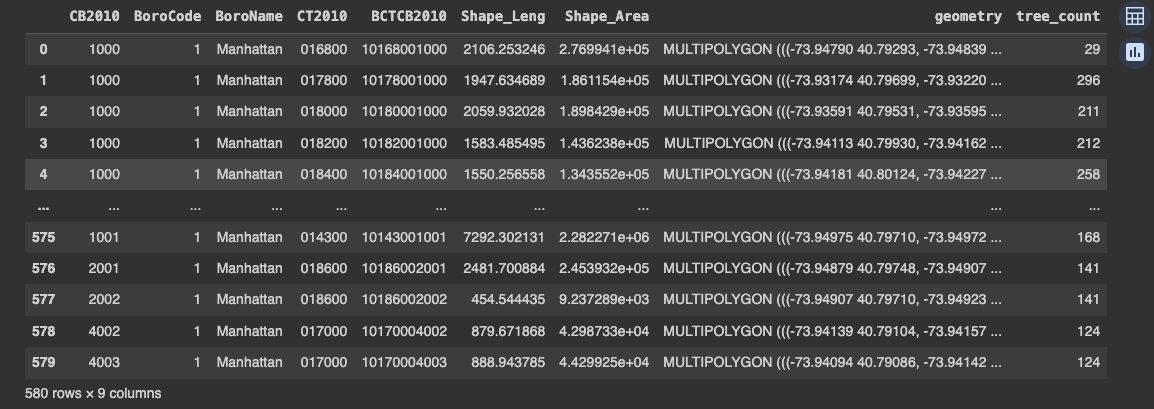
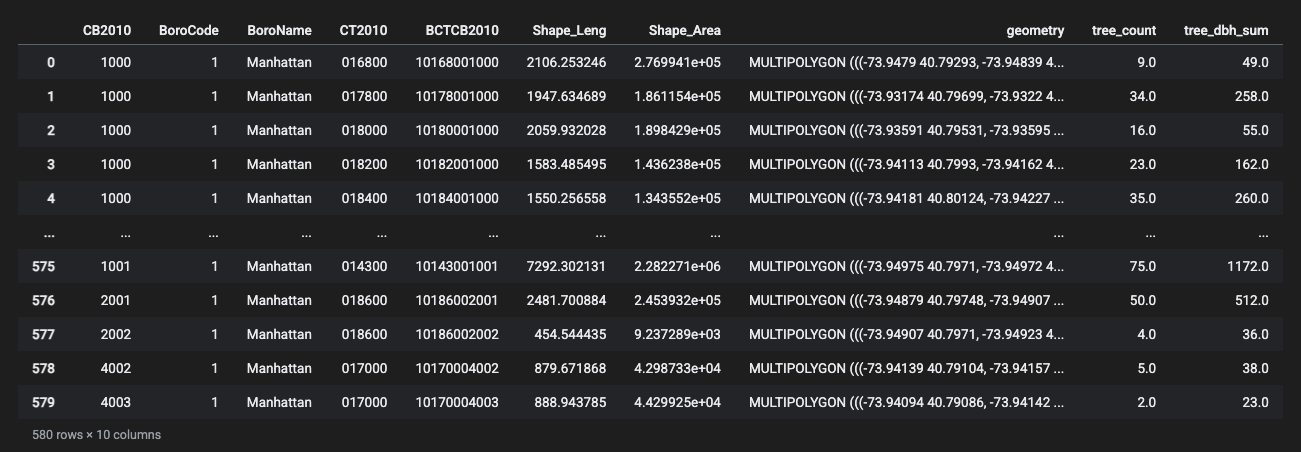
tutorial 2 updates

diff --git a/src/content/tutorials/02-mapping-where.md b/src/content/tutorials/02-mapping-where.md
@@ -25,8 +25,8 @@ Create a new folder for your work on this series of modules. Inside it create a 
 In this module you will be making a series of maps about NYC street trees. The following datasets are in the course folder, under the name of this tutorial:
 
 - **New York City Landcover 2010 (3ft version), clipped** (`landcover_2010_um.tif`). A raster dataset created to describe major land use categories for New York City derived from satellite imagery. The full dataset covers the whole city and is too large for a notebook, so I have clipped it to the same area of Harlem as the other two datasets. From the [NYC Open Data page](https://data.cityofnewyork.us/Environment/Landcover-Raster-Data-2010-3ft-Resolution/9auy-76zt) for the full dataset, also download the Data Dictionary: `Landcover2010_DataDictionary_20171012.xlsx`.
-- **New York City 2015 Street Tree Census** (`2015_Street_Tree_Census_subset_um.csv`). This dataset was collected by more than 2000 volunteers visiting each street tree within the five boroughs of NYC. For more background on this amazing effort (the third such census over the past 30 years) see the NYC Parks department website [here](https://www.nycgovparks.org/trees/treescount). The course folder has a subset of the data for an area in Harlem to make for easier processing. For those interested the full dataset is available for download directly via NYC Open Data [here](https://data.cityofnewyork.us/Environment/2015-Street-Tree-Census-Tree-Data/pi5s-9p35).
-- **New York City Census Blocks 2010** (`nycb2010_um.gpkg`). As with the street trees above, this is a subset of the full NYC Census Blocks file for an area of Harlem. I exported the blocks as a geopackage (`.gpkg`) so that we do not have to upload the several files that accompany a shapefile. The original dataset for all of NYC is available [here](https://data.cityofnewyork.us/City-Government/2010-Census-Blocks/v2h8-6mxf).
+- **New York City 2015 Street Tree Census** (`2015_Street_Tree_Census_subset_um.csv`). This dataset was collected by more than 2000 volunteers visiting each street tree within the five boroughs of NYC. For more background on this amazing effort (the third such census over the past 30 years) see the NYC Parks department website [here](https://www.nycgovparks.org/trees/treescount). The course folder has a subset of the data for an area in Harlem to make for easier processing. For those interested the full dataset is available for download directly via NYC Open Data [here](https://data.cityofnewyork.us/Environment/2015-Street-Tree-Census-Tree-Data/uvpi-gqnh).
+- **New York City Census Blocks 2010** (`nycb2010_um.gpkg`). As with the street trees above, this is a subset of the full NYC Census Blocks file for an area of Harlem. I exported the blocks as a geopackage (`.gpkg`) so that we do not have to upload the several files that accompany a shapefile. The original dataset for all of NYC is available [here](https://data.cityofnewyork.us/City-Government/2010-Census-Blocks/y9w2-ph8n).
 
 ### The notebook
 
@@ -129,8 +129,8 @@ To do this we will add two new datasets to our project, a geopackage containing 
 To reduce processing times you will conduct the next section with a subset of data covering part of upper Manhattan (from 105th Street to 141st Street). This is the dataset you downloaded at the beginning of this tutorial module.
 
 If you have a powerful computer (or don't mind waiting several minutes between steps) feel free to download the complete versions of the datasets for NYC as a whole.
-- [Download NYC Street Tree Census for all of NYC.](https://data.cityofnewyork.us/api/views/5rq2-4hqu/rows.csv?accessType=DOWNLOAD) Metadata available [here](https://data.cityofnewyork.us/Environment/2015-Street-Tree-Census-Tree-Data/pi5s-9p35).
-- [Download Census Blocks for all of NYC.](https://data.cityofnewyork.us/api/geospatial/v2h8-6mxf?method=export&format=Shapefile) Metadata available [here](https://data.cityofnewyork.us/City-Government/2010-Census-Blocks/v2h8-6mxf).
+- [Download NYC Street Tree Census for all of NYC.](https://data.cityofnewyork.us/api/views/uvpi-gqnh/rows.csv?accessType=DOWNLOAD) Metadata available [here](https://data.cityofnewyork.us/Environment/2015-Street-Tree-Census-Tree-Data/uvpi-gqnh).
+- [Download Census Blocks for all of NYC.](https://data.cityofnewyork.us/api/geospatial/y9w2-ph8n?method=export&format=Shapefile) Metadata available [here](https://data.cityofnewyork.us/City-Government/2010-Census-Blocks/y9w2-ph8n).
 
 ### Adding the street tree census
 
@@ -360,6 +360,10 @@ chart_TreeDiameter
 ```
 
 ![tree diameter][CHORO]
+
+The blocks drawn in white are the 99 blocks with no street trees on them. Their
+total diameter and their tree count are both zero, and dividing zero by zero
+gives `NaN`, which Altair leaves unfilled.
 
 In QGIS, the classification mode determined the groups that your data are assembled into, and the classification mode you choose will greatly influence the argument that your map conveys. Altair's default is a continuous color ramp, which is also a choice. Compare it with a quantile classification by swapping in this line and running the cell again:
 

diff --git a/src/content/resources/data-sources.md b/src/content/resources/data-sources.md
@@ -11,8 +11,8 @@ The datasets the tutorials use, and places to look for more. Each sandbox's sour
 
 ## Used in the tutorials
 
-- **2015 Street Tree Census.** NYC Parks, via [NYC Open Data](https://data.cityofnewyork.us/Environment/2015-Street-Tree-Census-Tree-Data/pi5s-9p35). About 666,000 trees, each visited by a volunteer. The tutorials use [a subset for upper Manhattan](https://drive.google.com/open?id=1ZpLafJbA2xRxJ55J8B4DsAveZBNSzUUD&usp=drive_fs) as a CSV. Coordinates are WGS 84.
-- **2010 Census Blocks.** NYC Department of City Planning, via [NYC Open Data](https://data.cityofnewyork.us/City-Government/2010-Census-Blocks/v2h8-6mxf). The tutorials use [a subset](https://drive.google.com/open?id=1uIVLheQ73t7TlCwjRtuhjvSM9_4T0itM&usp=drive_fs) as a GeoPackage. `CT2010` is the tract, `CB2010` the block within it.
+- **2015 Street Tree Census.** NYC Parks, via [NYC Open Data](https://data.cityofnewyork.us/Environment/2015-Street-Tree-Census-Tree-Data/uvpi-gqnh). About 666,000 trees, each visited by a volunteer. The tutorials use [a subset for upper Manhattan](https://drive.google.com/open?id=1ZpLafJbA2xRxJ55J8B4DsAveZBNSzUUD&usp=drive_fs) as a CSV. Coordinates are WGS 84.
+- **2010 Census Blocks.** NYC Department of City Planning, via [NYC Open Data](https://data.cityofnewyork.us/City-Government/2010-Census-Blocks/y9w2-ph8n). The tutorials use [a subset](https://drive.google.com/open?id=1uIVLheQ73t7TlCwjRtuhjvSM9_4T0itM&usp=drive_fs) as a GeoPackage. `CT2010` is the tract, `CB2010` the block within it.
 - **Land Cover 2010, 3 ft.** Made from aerial imagery for the city; the full attribution is in the metadata on [NYC Open Data](https://data.cityofnewyork.us/Environment/Landcover-Raster-Data-2010-3ft-Resolution/9auy-76zt), along with the data dictionary. EPSG:2263. The full raster is very large; Tutorial 2 uses a clip to the same area as the other two. **[Clip download: TBD.]**
 
 ## Where to look

diff --git a/src/content/tutorials/04-notebook-to-sandbox.md b/src/content/tutorials/04-notebook-to-sandbox.md
@@ -189,12 +189,12 @@ that pattern changes when the assumptions change.
 ## The data
 `street-trees.json`, exported from a notebook.
 - `blocks`: GeoJSON FeatureCollection, property `BCTCB2010`. 2010 Census Blocks
-  (NYC Open Data v2h8-6mxf), subset and simplified.
+  (NYC Open Data y9w2-ph8n), subset and simplified.
 - `trees`: parallel arrays `lon`, `lat`, `dbh_in` (trunk diameter, inches; 0
   means unknown, treat as missing), `health` (2 good, 1 fair, 0 poor, -1
   unrated), `block` (the tree's BCTCB2010, or '' for the few hundred at the edge
   that fall outside every block; they count in totals but in no block). 2015
-  Street Tree Census (NYC Open Data pi5s-9p35), subset. Trees with dbh_in 0 are
+  Street Tree Census (NYC Open Data uvpi-gqnh), subset. Trees with dbh_in 0 are
   excluded from everything.
 - `sites`: parallel arrays `lon`, `lat`, `block` (BCTCB2010). 15,787 possible
   planting spots on sidewalks, made in the notebook from NYC Street Centerline
